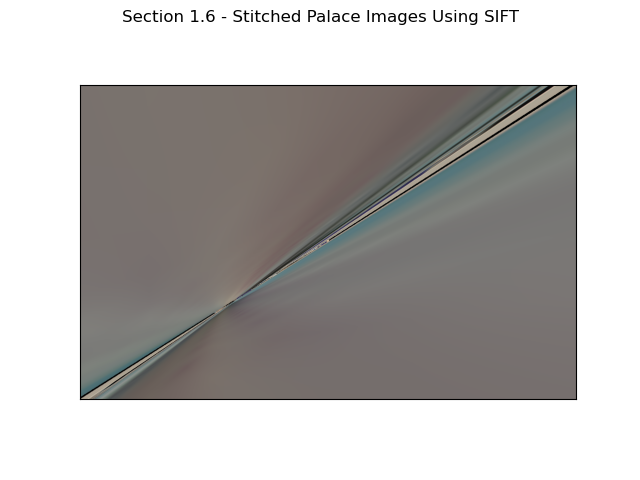
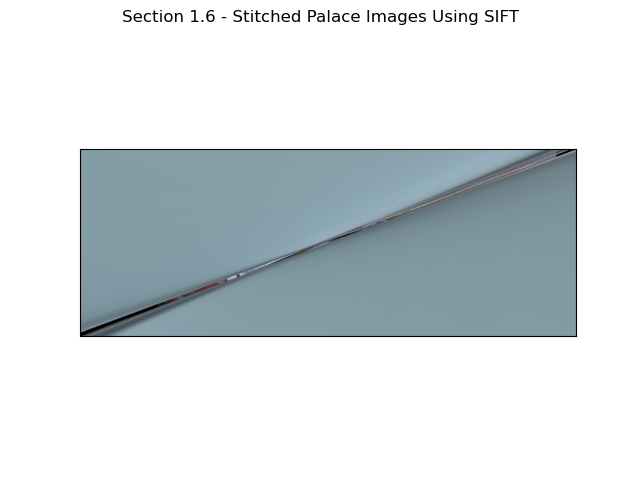
updates

diff --git a/code/my_homography.py b/code/my_homography.py
@@ -105,7 +105,7 @@ def createBigPanorama(images, mode='SIFT', use_ransac=True):
         else:
             p1, p2 = getPoints(current_result_left, image, 6, True)
         if use_ransac == True:
-            H_SIFT_2to1 = ransacH(p1, p2)
+            H_SIFT_2to1 = ransacH(p1, p2, nIter=150, tol=1.5) # TODO check
         else:
             H_SIFT_2to1 = computeH(p1[:, :], p2[:, :])
         out_size, y_down_amount, x_right_amount = \
@@ -122,7 +122,7 @@ def createBigPanorama(images, mode='SIFT', use_ransac=True):
         else:
             p1, p2 = getPoints(current_result_right, image, 6, True)
         if use_ransac == True:
-            H_SIFT_2to1 = ransacH(p1, p2)
+            H_SIFT_2to1 = ransacH(p1, p2, nIter=150, tol=1.5) # TODO check
         else:
             H_SIFT_2to1 = computeH(p1[:, :], p2[:, :])
         out_size, y_down_amount, x_right_amount = \
@@ -139,7 +139,7 @@ def createBigPanorama(images, mode='SIFT', use_ransac=True):
     else:
         p1, p2 = getPoints(current_result_left, current_result_right, 6, True)
     if use_ransac == True:
-        H_SIFT_2to1 = ransacH(p1, p2)
+        H_SIFT_2to1 = ransacH(p1, p2, nIter=150, tol=1.5) # TODO check
     else:
         H_SIFT_2to1 = computeH(p1[:, :], p2[:, :])
     out_size, y_down_amount, x_right_amount = \
@@ -295,7 +295,7 @@ def imageStitching(im1, im2, y_down_amount, x_right_amount):
     return panoImg
 
 
-def ransacH(p1, p2, nIter=250, tol=3):
+def ransacH(p1, p2, nIter=250, tol=3.0):
     num_points = p1.shape[1]
     p2_homogeneous = np.vstack((p2, np.ones((1, num_points))))
     max_num_inliers = 0
@@ -463,49 +463,45 @@ def Q1Six():
 
     # Resize the images due to time constraints
     beach_images = [cv2.resize(img, dim) for img in beach_images]
-    # beach_images = [cv2.rotate(img, cv2.ROTATE_90_CLOCKWISE) for img in
-    #                 beach_images]
-    start_Manual_stitch_beach_time = time.time()
-    print(f"Q1.6 - Starting panorama creation of Beach images using Manual "
-          f"mode and no RANSAC, with scale factor of {scale_percent}")
-    manual_stitch_beach = createBigPanorama(beach_images, mode='MANUAL',
-                                            use_ransac=False)
-    end_Manual_stitch_beach_time = time.time()
-    print(f"Q1.6 - Panorama creation of Beach images using Manual mode and "
-          f"no RANSAC with with scale factor of {scale_percent} took "
-          f"{end_Manual_stitch_beach_time - start_Manual_stitch_beach_time} "
-          f"seconds to complete")
-    # manual_stitch_beach = cv2.rotate(manual_stitch_beach,
-    #                                  cv2.ROTATE_90_COUNTERCLOCKWISE)
+    # TODO don't uncomment until time to turn in
+    # start_Manual_stitch_beach_time = time.time()
+    # print(f"Q1.6 - Starting panorama creation of Beach images using Manual "
+    #       f"mode and no RANSAC, with scale factor of {scale_percent}")
+    # manual_stitch_beach = createBigPanorama(beach_images, mode='MANUAL',
+    #                                         use_ransac=False)
+    # end_Manual_stitch_beach_time = time.time()
+    # print(f"Q1.6 - Panorama creation of Beach images using Manual mode and "
+    #       f"no RANSAC with with scale factor of {scale_percent} took "
+    #       f"{end_Manual_stitch_beach_time - start_Manual_stitch_beach_time} "
+    #       f"seconds to complete")
 
-    fig1, axes1 = plt.subplots(1, 1)
-    axes1.imshow(manual_stitch_beach)
-    axes1.set_xticks([])
-    axes1.set_yticks([])
-    fig1.suptitle('Section 1.6 - Stitched Beach Images Using Manually '
-                  'Selected Points')
-    plt.savefig("./../output/Section 1.6 - Stitched Beach Images Using "
-                "Manually Selected Points.png")
+    # fig1, axes1 = plt.subplots(1, 1)
+    # axes1.imshow(manual_stitch_beach)
+    # axes1.set_xticks([])
+    # axes1.set_yticks([])
+    # fig1.suptitle('Section 1.6 - Stitched Beach Images Using Manually '
+    #               'Selected Points')
+    # plt.savefig("./../output/Section 1.6 - Stitched Beach Images Using "
+    #             "Manually Selected Points.png")
 
-    start_SIFT_stitch_beach_time = time.time()
-    print(f"Q1.6 - Starting panorama creation of Beach images using SIFT and "
-          f"no RANSAC, with scale factor of {scale_percent}")
-    SIFT_stitch_beach = createBigPanorama(beach_images, mode='SIFT',
-                                          use_ransac=False)
-    end_SIFT_stitch_beach_time = time.time()
-    print(f"Q1.6 - Panorama creation of Beach images using SIFT and no RANSAC "
-          f"with with scale factor of {scale_percent} took "
-          f"{end_SIFT_stitch_beach_time - start_SIFT_stitch_beach_time} "
-          f"seconds to complete")
-    # SIFT_stitch_beach = cv2.rotate(SIFT_stitch_beach,
-    #                                cv2.ROTATE_90_COUNTERCLOCKWISE)
-    fig2, axes2 = plt.subplots(1, 1)
-    axes2.imshow(SIFT_stitch_beach)
-    axes2.set_xticks([])
-    axes2.set_yticks([])
-    fig2.suptitle('Section 1.6 - Stitched Beach Images Using SIFT')
-    plt.savefig("./../output/Section 1.6 - Stitched Beach Images Using "
-                "SIFT.png")
+    # start_SIFT_stitch_beach_time = time.time()
+    # print(f"Q1.6 - Starting panorama creation of Beach images using SIFT and "
+    #       f"no RANSAC, with scale factor of {scale_percent}")
+    # SIFT_stitch_beach = createBigPanorama(beach_images, mode='SIFT',
+    #                                       use_ransac=False)
+    # end_SIFT_stitch_beach_time = time.time()
+    # print(f"Q1.6 - Panorama creation of Beach images using SIFT and no RANSAC "
+    #       f"with with scale factor of {scale_percent} took "
+    #       f"{end_SIFT_stitch_beach_time - start_SIFT_stitch_beach_time} "
+    #       f"seconds to complete")
+    #
+    # fig2, axes2 = plt.subplots(1, 1)
+    # axes2.imshow(SIFT_stitch_beach)
+    # axes2.set_xticks([])
+    # axes2.set_yticks([])
+    # fig2.suptitle('Section 1.6 - Stitched Beach Images Using SIFT')
+    # plt.savefig("./../output/Section 1.6 - Stitched Beach Images Using "
+    #             "SIFT.png")
 
     # Load palace images in opposite order
     palace_images = [
@@ -515,7 +511,7 @@ def Q1Six():
         cv2.cvtColor(cv2.imread('./data/sintra2.JPG'), cv2.COLOR_BGR2RGB),
         cv2.cvtColor(cv2.imread('./data/sintra1.JPG'), cv2.COLOR_BGR2RGB)]
 
-    scale_percent = 40  # percent of original size
+    scale_percent = 25  # percent of original size
     width = int(palace_images[0].shape[1] * scale_percent / 100)
     height = int(palace_images[0].shape[0] * scale_percent / 100)
     dim = (width, height)
@@ -523,25 +519,25 @@ def Q1Six():
     # Resize the images due to time constraints
     palace_images = [cv2.resize(img, dim) for img in palace_images]
 
-    start_Manual_stitch_palace_time = time.time()
-    print(f"Q1.6 - Starting panorama creation of Palace images using Manual "
-          f"mode and no RANSAC, with scale factor of {scale_percent}")
-    manual_stitch_palace = createBigPanorama(palace_images, mode='MANUAL',
-                                             use_ransac=False)
-    end_Manual_stitch_palace_time = time.time()
-    print(f"Q1.6 - Panorama creation of Palace images using Manual mode and "
-          f"no RANSAC with with scale factor of {scale_percent} took "
-          f"{end_Manual_stitch_palace_time - start_Manual_stitch_palace_time} "
-          f"seconds to complete")
-
-    fig3, axes3 = plt.subplots(1, 1)
-    axes3.imshow(manual_stitch_palace)
-    axes3.set_xticks([])
-    axes3.set_yticks([])
-    fig3.suptitle('Section 1.6 - Stitched Palace Images Using Manually '
-                  'Selected Points')
-    plt.savefig("./../output/Section 1.6 - Stitched Palace Images Using "
-                "Manually Selected Points.png")
+    # start_Manual_stitch_palace_time = time.time()
+    # print(f"Q1.6 - Starting panorama creation of Palace images using Manual "
+    #       f"mode and no RANSAC, with scale factor of {scale_percent}")
+    # manual_stitch_palace = createBigPanorama(palace_images, mode='MANUAL',
+    #                                          use_ransac=False)
+    # end_Manual_stitch_palace_time = time.time()
+    # print(f"Q1.6 - Panorama creation of Palace images using Manual mode and "
+    #       f"no RANSAC with with scale factor of {scale_percent} took "
+    #       f"{end_Manual_stitch_palace_time - start_Manual_stitch_palace_time} "
+    #       f"seconds to complete")
+    #
+    # fig3, axes3 = plt.subplots(1, 1)
+    # axes3.imshow(manual_stitch_palace)
+    # axes3.set_xticks([])
+    # axes3.set_yticks([])
+    # fig3.suptitle('Section 1.6 - Stitched Palace Images Using Manually '
+    #               'Selected Points')
+    # plt.savefig("./../output/Section 1.6 - Stitched Palace Images Using "
+    #             "Manually Selected Points.png")
 
     start_SIFT_stitch_palace_time = time.time()
     print(f"Q1.6 - Starting panorama creation of Palace images using SIFT and "
@@ -562,6 +558,7 @@ def Q1Six():
     plt.savefig("./../output/Section 1.6 - Stitched Palace Images Using "
                 "SIFT.png")
 
+
 def Q1Seven():
     # Load beach images
     beach_images = [
@@ -571,22 +568,18 @@ def Q1Seven():
         cv2.cvtColor(cv2.imread('./data/beach4.jpg'), cv2.COLOR_BGR2RGB),
         cv2.cvtColor(cv2.imread('./data/beach5.jpg'), cv2.COLOR_BGR2RGB)]
 
-    scale_percent = 50  # percent of original size
+    scale_percent = 40  # percent of original size
     width = int(beach_images[0].shape[1] * scale_percent / 100)
     height = int(beach_images[0].shape[0] * scale_percent / 100)
     dim = (width, height)
 
     # Resize the images due to time constraints
     beach_images = [cv2.resize(img, dim) for img in beach_images]
-    # beach_images = [cv2.rotate(img, cv2.ROTATE_90_CLOCKWISE) for img in
-    #                 beach_images]
     # start_Manual_stitch_beach_time = time.time()
     # print(f"Q1.7 - Starting panorama creation of Beach images using Manual "
     #       f"mode and RANSAC, with scale factor of {scale_percent}")
     # manual_stitch_beach = createBigPanorama(beach_images, mode='MANUAL',
     #                                         use_ransac=True)
-    # manual_stitch_beach = cv2.rotate(manual_stitch_beach,
-    #                                  cv2.ROTATE_90_COUNTERCLOCKWISE)
     # end_Manual_stitch_beach_time = time.time()
     # print(f"Q1.7 - Panorama creation of Beach images using Manual mode and "
     #       f"RANSAC with with scale factor of {scale_percent} took "
@@ -602,62 +595,63 @@ def Q1Seven():
     # plt.savefig("./../output/Section 1.7 - Stitched Beach Images Using "
     #             "Manually Selected Points and RANSAC.png")
     #
-    # start_SIFT_stitch_beach_time = time.time()
-    # print(f"Q1.7 - Starting panorama creation of Beach images using SIFT and "
-    #       f"RANSAC, with scale factor of {scale_percent}")
-    # SIFT_stitch_beach = createBigPanorama(beach_images, mode='SIFT',
-    #                                       use_ransac=True)
-    # end_SIFT_stitch_beach_time = time.time()
-    # print(f"Q1.7 - Panorama creation of Beach images using SIFT and RANSAC "
-    #       f"with with scale factor of {scale_percent} took "
-    #       f"{end_SIFT_stitch_beach_time - start_SIFT_stitch_beach_time} "
-    #       f"seconds to complete")
-    # SIFT_stitch_beach = cv2.rotate(SIFT_stitch_beach,
-    #                                cv2.ROTATE_90_COUNTERCLOCKWISE)
-
-    # fig2, axes2 = plt.subplots(1, 1)
-    # axes2.imshow(SIFT_stitch_beach)
-    # axes2.set_xticks([])
-    # axes2.set_yticks([])
-    # fig2.suptitle('Section 1.7 - Stitched Beach Images Using SIFT and RANSAC')
-    # plt.savefig("./../output/Section 1.7 - Stitched Beach Images Using "
-    #             "SIFT and RANSAC.png")
-
-    # Load palace images in opposite order
-    palace_images = [
-        cv2.cvtColor(cv2.imread('./data/sintra5.JPG'), cv2.COLOR_BGR2RGB),
-        cv2.cvtColor(cv2.imread('./data/sintra4.JPG'), cv2.COLOR_BGR2RGB),
-        cv2.cvtColor(cv2.imread('./data/sintra3.JPG'), cv2.COLOR_BGR2RGB),
-        cv2.cvtColor(cv2.imread('./data/sintra2.JPG'), cv2.COLOR_BGR2RGB),
-        cv2.cvtColor(cv2.imread('./data/sintra1.JPG'), cv2.COLOR_BGR2RGB)]
-
-    scale_percent = 15  # percent of original size
-    width = int(palace_images[0].shape[1] * scale_percent / 100)
-    height = int(palace_images[0].shape[0] * scale_percent / 100)
-    dim = (width, height)
-
-    # # Resize the images due to time constraints
-    palace_images = [cv2.resize(img, dim) for img in palace_images]
-    start_Manual_stitch_palace_time = time.time()
-    print(f"Q1.7 - Starting panorama creation of Palace images using Manual "
-          f"mode and RANSAC, with scale factor of {scale_percent}")
-    manual_stitch_palace = createBigPanorama(palace_images, mode='MANUAL',
-                                             use_ransac=True)
-    end_Manual_stitch_palace_time = time.time()
-    print(f"Q1.7 - Panorama creation of Palace images using Manual mode and "
-          f"RANSAC with with scale factor of {scale_percent} took "
-          f"{end_Manual_stitch_palace_time - start_Manual_stitch_palace_time} "
+    start_SIFT_stitch_beach_time = time.time()
+    print(f"Q1.7 - Starting panorama creation of Beach images using SIFT and "
+          f"RANSAC, with scale factor of {scale_percent}")
+    SIFT_stitch_beach = createBigPanorama(beach_images, mode='SIFT',
+                                          use_ransac=True)
+    end_SIFT_stitch_beach_time = time.time()
+    print(f"Q1.7 - Panorama creation of Beach images using SIFT and RANSAC "
+          f"with with scale factor of {scale_percent} took "
+          f"{end_SIFT_stitch_beach_time - start_SIFT_stitch_beach_time} "
           f"seconds to complete")
 
-    fig3, axes3 = plt.subplots(1, 1)
-    axes3.imshow(manual_stitch_palace)
-    axes3.set_xticks([])
-    axes3.set_yticks([])
-    fig3.suptitle('Section 1.7 - Stitched Palace Images Using Manually '
-                  'Selected Points and RANSAC')
-    plt.savefig("./../output/Section 1.7 - Stitched Palace Images Using "
-                "Manually Selected Points and RANSAC.png")
+    fig2, axes2 = plt.subplots(1, 1)
+    axes2.imshow(SIFT_stitch_beach)
+    axes2.set_xticks([])
+    axes2.set_yticks([])
+    fig2.suptitle('Section 1.7 - Stitched Beach Images Using SIFT and RANSAC')
+    plt.savefig("./../output/Section 1.7 - Stitched Beach Images Using "
+                "SIFT and RANSAC.png")
 
+    # Load palace images in opposite order
+    # palace_images = [
+    #     cv2.cvtColor(cv2.imread('./data/sintra5.JPG'), cv2.COLOR_BGR2RGB),
+    #     cv2.cvtColor(cv2.imread('./data/sintra4.JPG'), cv2.COLOR_BGR2RGB),
+    #     cv2.cvtColor(cv2.imread('./data/sintra3.JPG'), cv2.COLOR_BGR2RGB),
+    #     cv2.cvtColor(cv2.imread('./data/sintra2.JPG'), cv2.COLOR_BGR2RGB),
+    #     cv2.cvtColor(cv2.imread('./data/sintra1.JPG'), cv2.COLOR_BGR2RGB)]
+    #
+    # scale_percent = 15  # percent of original size
+    # width = int(palace_images[0].shape[1] * scale_percent / 100)
+    # height = int(palace_images[0].shape[0] * scale_percent / 100)
+    # dim = (width, height)
+    #
+    # # Resize the images due to time constraints
+    # palace_images = [cv2.resize(img, dim) for img in palace_images]
+
+    # TODO DO NOT Uncomment the block below (until turn in)
+    # start_Manual_stitch_palace_time = time.time()
+    # print(f"Q1.7 - Starting panorama creation of Palace images using Manual "
+    #       f"mode and RANSAC, with scale factor of {scale_percent}")
+    # manual_stitch_palace = createBigPanorama(palace_images, mode='MANUAL',
+    #                                          use_ransac=True)
+    # end_Manual_stitch_palace_time = time.time()
+    # print(f"Q1.7 - Panorama creation of Palace images using Manual mode and "
+    #       f"RANSAC with with scale factor of {scale_percent} took "
+    #       f"{end_Manual_stitch_palace_time - start_Manual_stitch_palace_time} "
+    #       f"seconds to complete")
+
+    # fig3, axes3 = plt.subplots(1, 1)
+    # axes3.imshow(manual_stitch_palace)
+    # axes3.set_xticks([])
+    # axes3.set_yticks([])
+    # fig3.suptitle('Section 1.7 - Stitched Palace Images Using Manually '
+    #               'Selected Points and RANSAC')
+    # plt.savefig("./../output/Section 1.7 - Stitched Palace Images Using "
+    #             "Manually Selected Points and RANSAC.png")
+
+    # TODO DO NOT Uncomment the block below (until turn in)
     # start_SIFT_stitch_palace_time = time.time()
     # print(f"Q1.7 - Starting panorama creation of Palace images using SIFT and "
     #       f"RANSAC, with scale factor of {scale_percent}")
@@ -669,7 +663,6 @@ def Q1Seven():
     #       f"{end_SIFT_stitch_palace_time - start_SIFT_stitch_palace_time} "
     #       f"seconds to complete")
 
-    # TODO DO NOT Uncomment the block below (until turn in)
     # fig4, axes4 = plt.subplots(1, 1)
     # axes4.imshow(SIFT_stitch_palace)
     # axes4.set_xticks([])
@@ -677,6 +670,40 @@ def Q1Seven():
     # fig4.suptitle('Section 1.7 - Stitched Palace Images Using SIFT and RANSAC')
     # plt.savefig("./../output/Section 1.7 - Stitched Palace Images Using "
     #             "SIFT and RANSAC.png")
+
+
+def Q1Eight():
+    technion_images = [
+        cv2.cvtColor(cv2.imread('./my_data/taub_1.jpeg'), cv2.COLOR_BGR2RGB),
+        cv2.cvtColor(cv2.imread('./my_data/taub_2.jpeg'), cv2.COLOR_BGR2RGB),
+        cv2.cvtColor(cv2.imread('./my_data/taub_3.jpeg'), cv2.COLOR_BGR2RGB)]
+
+    scale_percent = 40  # percent of original size
+    width = int(technion_images[0].shape[1] * scale_percent / 100)
+    height = int(technion_images[0].shape[0] * scale_percent / 100)
+    dim = (width, height)
+
+    technion_images = [cv2.resize(img, dim) for img in technion_images]
+
+    start_SIFT_stitch_technion_time = time.time()
+    print(f"Q1.8 - Starting panorama creation of Technion images using SIFT "
+          f"and RANSAC, with scale factor of {scale_percent}")
+    SIFT_stitch_technion = createBigPanorama(technion_images, mode='SIFT',
+                                             use_ransac=True)
+    end_SIFT_stitch_technion_time = time.time()
+    print(f"Q1.8 - Panorama creation of Technion images using SIFT and RANSAC "
+          f"with with scale factor of {scale_percent} took "
+          f"{end_SIFT_stitch_technion_time - start_SIFT_stitch_technion_time} "
+          f"seconds to complete")
+
+    fig1, axes1 = plt.subplots(1, 1)
+    axes1.imshow(SIFT_stitch_technion)
+    axes1.set_xticks([])
+    axes1.set_yticks([])
+    fig1.suptitle('Section 1.8 - Stitched Technion Images Using SIFT and '
+                  'RANSAC')
+    plt.savefig("./../output/Section 1.8 - Stitched Technion Images Using "
+                "SIFT and RANSAC.png")
 
 
 ################################################################################
@@ -694,6 +721,6 @@ if __name__ == '__main__':
     # Q1Five()
     # Q1Six()
     Q1Seven()
-
+    # Q1Eight()
 
     print("end")
